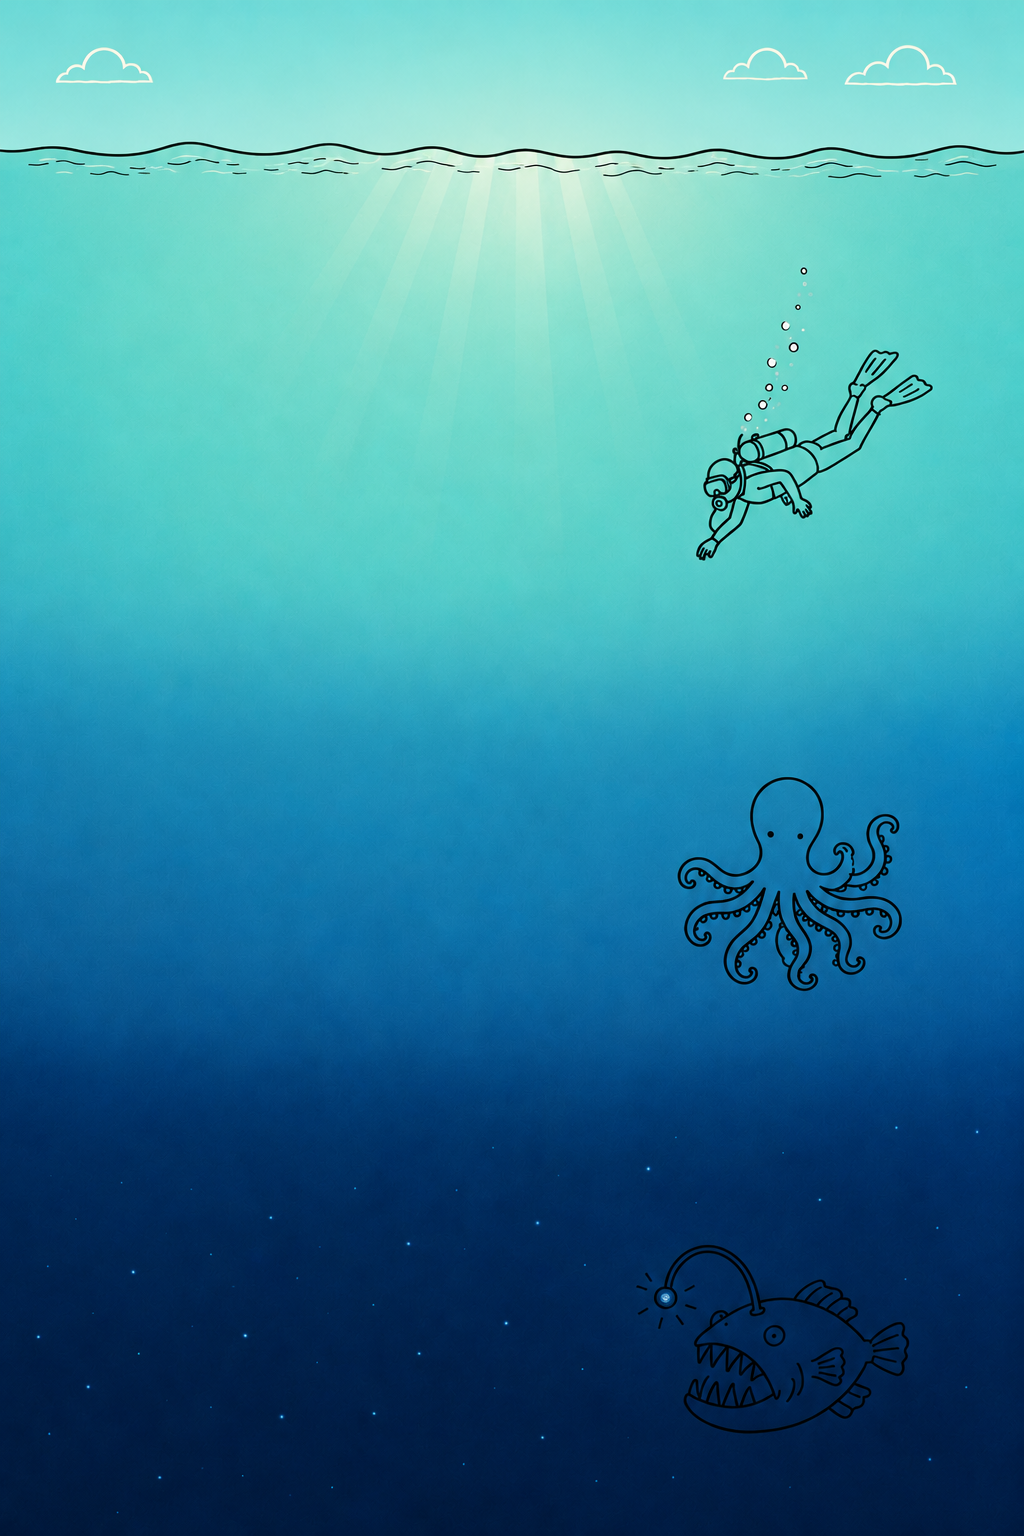
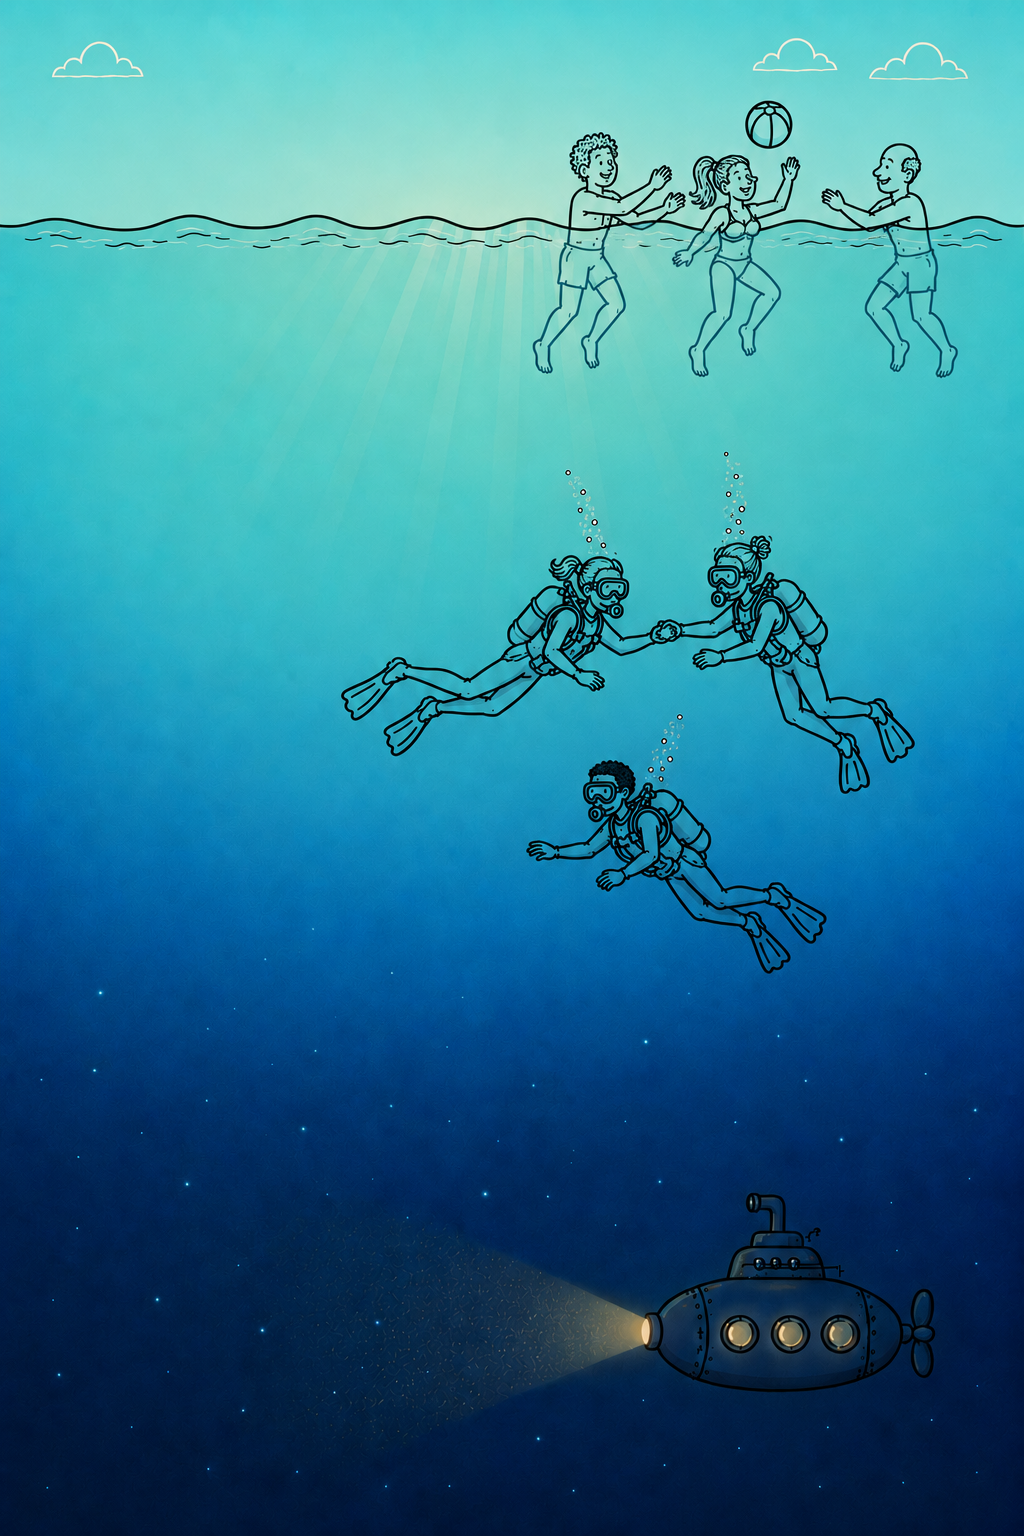
Fix ps_responses saves; split PS intro into 3 steps; update ocean image
- ps_responses upsert now works correctly with the unique constraint on
  (member_id, statement_id, round) — all 12 ratings confirmed saving
  and re-rating updates rather than duplicates (verified live)
- Split the old ps_intro scrolling descent into three separate steps:
  ps_intro_open (plain), ps_descent (single ocean image, no tiling),
  ps_intro_close (plain close + accent question)
- Ocean image shown exactly once via <img>, 2:3 portrait aspect,
  frosted panels overlaid at correct zone depths
- Updated ps-ocean.png with revised artwork

diff --git a/components/interview/steps/PsDescentStep.tsx b/components/interview/steps/PsDescentStep.tsx
@@ -1,0 +1,108 @@
+"use client";
+
+import { useEffect, useRef } from "react";
+
+// The three depth descriptions, verbatim, positioned over their matching
+// colour band in the image. top/left are percentages of the image's
+// natural height/width so the panels track the image content exactly
+// regardless of rendered size.
+const ZONES = [
+  {
+    key: "zone1",
+    eyebrow: "Zone 1 · Safe to Belong",
+    top: "4%",
+    text: "Near the surface, it's about belonging. On a psychologically safe team, people feel welcome, respected, and comfortable just being themselves. You can show up as you are.",
+  },
+  {
+    key: "zone2",
+    eyebrow: "Zone 2 · Safe to Speak Freely",
+    top: "40%",
+    text: "As a team grows safer, you can go deeper. Here, it becomes possible to speak freely — to be candid and honest, to raise hard things, to disagree, to ask the obvious question. The things that often go unsaid can finally be said.",
+  },
+  {
+    key: "zone3",
+    eyebrow: "Zone 3 · Safe to Innovate",
+    top: "65%",
+    text: "And at the deepest level, members feel secure enough to truly innovate — to challenge how things are done, take real risks, and try things that might not work. This is where teams do their most extraordinary work. But you can only go this deep if it feels safe enough to get here.",
+  },
+];
+
+export default function PsDescentStep({
+  readAloud,
+  onAdvance,
+}: {
+  readAloud: boolean;
+  onAdvance: () => void;
+}) {
+  const hasSpokenRef = useRef(false);
+
+  // Queue all three narrations in order when read-aloud is on. Cancel is
+  // handled centrally by goToStep when leaving this step.
+  useEffect(() => {
+    if (!readAloud) return;
+    if (hasSpokenRef.current) return;
+    if (typeof window === "undefined" || !window.speechSynthesis) return;
+
+    hasSpokenRef.current = true;
+    const voices = window.speechSynthesis.getVoices();
+    const englishVoice = voices.find((v) => v.lang.startsWith("en"));
+
+    for (const zone of ZONES) {
+      const utterance = new SpeechSynthesisUtterance(zone.text);
+      utterance.rate = 0.95;
+      if (englishVoice) utterance.voice = englishVoice;
+      window.speechSynthesis.speak(utterance);
+    }
+  }, [readAloud]);
+
+  return (
+    <div>
+      {/* Negative horizontal margin cancels the parent's px-6 so the image
+          spans the full max-w-2xl column edge-to-edge — portrait image,
+          natural 2:3 ratio, shown exactly once with no tiling or repeat. */}
+      <div className="relative -mx-6">
+        <img
+          src="/ps-ocean.png"
+          alt="Ocean cross-section showing three depths of psychological safety"
+          className="w-full h-auto block"
+        />
+
+        {/* Gradient: darkens the left where text sits, fades to transparent
+            on the right so the diver, octopus, and anglerfish stay visible. */}
+        <div
+          className="absolute inset-0 pointer-events-none"
+          style={{
+            background:
+              "linear-gradient(to right, rgba(6,18,28,0.55), rgba(6,18,28,0.2) 50%, rgba(6,18,28,0) 72%)",
+          }}
+        />
+
+        {ZONES.map((zone) => (
+          <div
+            key={zone.key}
+            className="absolute"
+            style={{ top: zone.top, left: "5%", width: "46%" }}
+          >
+            <div className="rounded-xl bg-white/[0.14] backdrop-blur-md border border-white/20 px-4 py-3.5">
+              <p className="text-[10px] uppercase tracking-widest text-white/60 mb-1.5">
+                {zone.eyebrow}
+              </p>
+              <p
+                className="text-white text-sm sm:text-base leading-relaxed"
+                style={{ textShadow: "0 1px 6px rgba(0,0,0,0.4)" }}
+              >
+                {zone.text}
+              </p>
+            </div>
+          </div>
+        ))}
+      </div>
+
+      <div className="mt-8 pb-4">
+        <button type="button" onClick={onAdvance} className="btn-primary">
+          Continue
+        </button>
+      </div>
+    </div>
+  );
+}

diff --git a/components/interview/steps/PsIntroCloseStep.tsx b/components/interview/steps/PsIntroCloseStep.tsx
@@ -1,0 +1,38 @@
+import ChatBubble from "@/components/interview/ChatBubble";
+
+export default function PsIntroCloseStep({
+  readAloud,
+  onAdvance,
+}: {
+  readAloud: boolean;
+  onAdvance: () => void;
+}) {
+  return (
+    <div>
+      <img
+        src="/octopus-logo.png"
+        alt=""
+        className="h-20 w-auto mx-auto mb-8"
+      />
+
+      <ChatBubble readAloud={readAloud}>
+        Psychological safety is felt at the group level — it&apos;s about
+        what&apos;s possible when the whole team is together. Research shows
+        it&apos;s the strongest predictor of how well a team performs, and in
+        virtual teams it&apos;s harder to build and easier to lose. So
+        here&apos;s what I want to understand:
+      </ChatBubble>
+
+      <p
+        className="accent text-2xl sm:text-3xl leading-snug mt-6 mb-10"
+        style={{ fontFamily: "Playfair Display, serif" }}
+      >
+        How deep into this ocean does your team feel safe going right now?
+      </p>
+
+      <button type="button" onClick={onAdvance} className="btn-primary">
+        Let&apos;s find out
+      </button>
+    </div>
+  );
+}

diff --git a/app/interview/[member_id]/page.tsx b/app/interview/[member_id]/page.tsx
@@ -22,7 +22,9 @@ import PersonalContextStep from "@/components/interview/steps/PersonalContextSte
 import PurposeStep from "@/components/interview/steps/PurposeStep";
 import RosterStep from "@/components/interview/steps/RosterStep";
 import CoordinationStep from "@/components/interview/steps/CoordinationStep";
-import PsIntroStep from "@/components/interview/steps/PsIntroStep";
+import PsIntroOpenStep from "@/components/interview/steps/PsIntroOpenStep";
+import PsDescentStep from "@/components/interview/steps/PsDescentStep";
+import PsIntroCloseStep from "@/components/interview/steps/PsIntroCloseStep";
 import PsFrameStep from "@/components/interview/steps/PsFrameStep";
 import PsDiagnosticStep from "@/components/interview/steps/PsDiagnosticStep";
 import PsReflectStep from "@/components/interview/steps/PsReflectStep";
@@ -40,7 +42,9 @@ const STEP_ORDER: InterviewStep[] = [
   "purpose",
   "roster",
   "coordination",
-  "ps_intro",
+  "ps_intro_open",
+  "ps_descent",
+  "ps_intro_close",
   "ps_frame",
   "ps_diagnostic",
   "ps_reflect",
@@ -49,7 +53,9 @@ const STEP_ORDER: InterviewStep[] = [
 
 // ps_diagnostic breaks out of the centred max-w-2xl column to go full-bleed
 // (the ocean background needs the full viewport width to feel right).
-const FULL_BLEED_STEPS: InterviewStep[] = ["ps_intro", "ps_diagnostic"];
+// Only ps_diagnostic needs to break the centred column — the other PS
+// steps use the standard layout (portrait image constrains itself fine).
+const FULL_BLEED_STEPS: InterviewStep[] = ["ps_diagnostic"];
 
 // Draft state for steps whose input shouldn't be lost if the member goes
 // back and then forward again. Step components stay mount/unmount
@@ -365,12 +371,26 @@ export default function InterviewPage() {
             onRatingsChange={(ratings) => updateDraft({ coordRatings: ratings })}
             rowIds={draft.coordRowIds}
             onRowIdsChange={(rowIds) => updateDraft({ coordRowIds: rowIds })}
-            onAdvance={() => goToStep("ps_intro")}
+            onAdvance={() => goToStep("ps_intro_open")}
           />
         )}
 
-        {step === "ps_intro" && (
-          <PsIntroStep
+        {step === "ps_intro_open" && (
+          <PsIntroOpenStep
+            readAloud={readAloud}
+            onAdvance={() => goToStep("ps_descent")}
+          />
+        )}
+
+        {step === "ps_descent" && (
+          <PsDescentStep
+            readAloud={readAloud}
+            onAdvance={() => goToStep("ps_intro_close")}
+          />
+        )}
+
+        {step === "ps_intro_close" && (
+          <PsIntroCloseStep
             readAloud={readAloud}
             onAdvance={() => goToStep("ps_frame")}
           />

diff --git a/components/interview/steps/PsIntroOpenStep.tsx b/components/interview/steps/PsIntroOpenStep.tsx
@@ -1,0 +1,29 @@
+import ChatBubble from "@/components/interview/ChatBubble";
+
+export default function PsIntroOpenStep({
+  readAloud,
+  onAdvance,
+}: {
+  readAloud: boolean;
+  onAdvance: () => void;
+}) {
+  return (
+    <div>
+      <img
+        src="/octopus-logo.png"
+        alt=""
+        className="h-20 w-auto mx-auto mb-8"
+      />
+
+      <ChatBubble readAloud={readAloud}>
+        Before we look at how your team is doing, I want to show you what
+        I mean by psychological safety. Think of your team like an ocean —
+        and how deep into it you feel safe going together.
+      </ChatBubble>
+
+      <button type="button" onClick={onAdvance} className="btn-primary mt-6">
+        Take me down
+      </button>
+    </div>
+  );
+}

diff --git a/components/interview/ProgressBar.tsx b/components/interview/ProgressBar.tsx
@@ -11,7 +11,9 @@ const STEP_ORDER: InterviewStep[] = [
   "purpose",
   "roster",
   "coordination",
-  "ps_intro",
+  "ps_intro_open",
+  "ps_descent",
+  "ps_intro_close",
   "ps_frame",
   "ps_diagnostic",
   "ps_reflect",

diff --git a/components/interview/types.ts b/components/interview/types.ts
@@ -16,7 +16,9 @@ export type InterviewStep =
   | "purpose"
   | "roster"
   | "coordination"
-  | "ps_intro"
+  | "ps_intro_open"
+  | "ps_descent"
+  | "ps_intro_close"
   | "ps_frame"
   | "ps_diagnostic"
   | "ps_reflect"